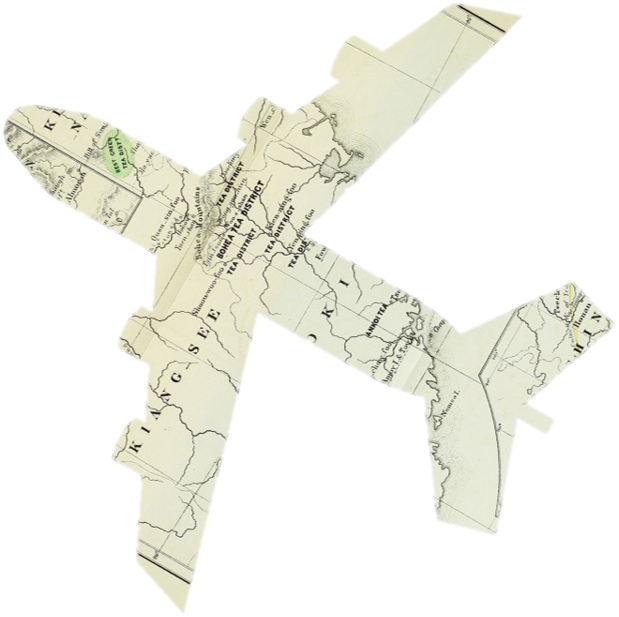
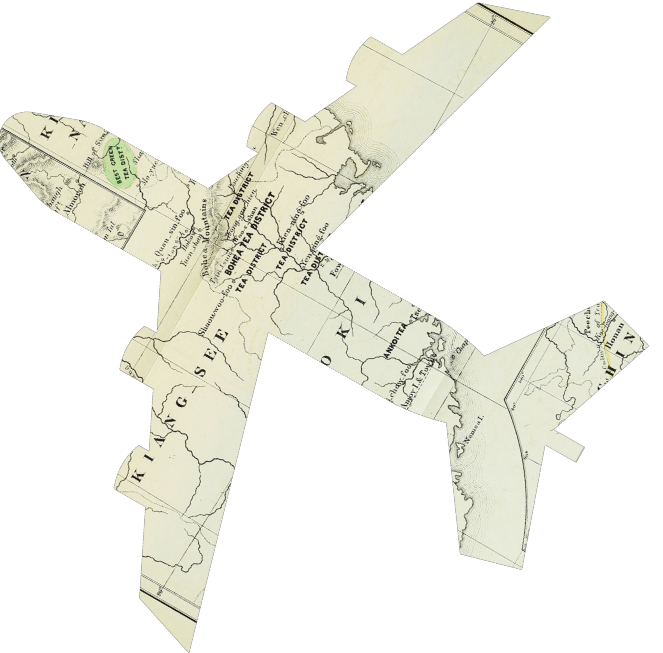
Statue image formatted and added Repositioning elements in Booki page

diff --git a/css/style.css b/css/style.css
@@ -405,8 +405,8 @@ div#BookiPage .VisitSiteButtonContainer {
     background-color: transparent;
     position: relative;
     z-index: 5;
-    top: -151px;
-    left: -33px;
+    top: -176px;
+    left: -539px;
 }
 
 div#OhmyfoodPage .VisitSiteButtonContainer {
@@ -441,10 +441,6 @@ div.OhmyfoodDescription {
 
 }
 
-div.OhmyfoodDescription p {
-    width: 264px;
-
-}
 
 div.OhmyfoodAllText {
     display:flex;
@@ -458,12 +454,12 @@ div.OhmyfoodAllText {
 }
 
 
-div.BackArrowContainer {
+div#BookiPage .BackArrowContainer {
     padding-top:30px;
     z-index:4;
     background-color:transparent;
     position:relative;
-    left:18px;
+    left:-457px;
 }
 
 div#OhmyfoodPage .BackArrowContainer a {
@@ -488,13 +484,6 @@ div.BookiDescription {
 
 }
 
-div.BookiDescription p {
-    width: 368px;
-    z-index: 1;
-    background-color: transparent;
-    position: relative;
-
-}
 
 div.BookiAllText {
     display:flex;
@@ -516,10 +505,26 @@ div#BookiPage {
     justify-content: space-between;
     overflow:hidden;
     height:100vh;
+}
 
-   
+div.BookiGiantStatueContainer {
+    rotate: 10deg;
+    z-index: 3;
+    left: 671px;
+    top: -97px;
+    position: relative;
+    width: 500px;
+    
 
 }
+
+div.BookiGiantStatueContainer img {
+    width: 973px;
+    object-fit: cover;
+    opacity: 50%;
+    
+}
+
 
 div.BookiTitleContainer {
     background: transparent;
@@ -527,8 +532,8 @@ div.BookiTitleContainer {
     display:flex;
     justify-content: center;
     position: relative;
-    top: 107px;
-    left: 41px;
+    top: 157px;
+    left: -456px;
     z-index: 4;
 }
 
@@ -539,44 +544,53 @@ h2.PageTitle{
 
 div.BookiDescription p {
     text-align:center;
-    top: -115px;
-    left: 108px;
+    top: -134px;
+    left: -393px;
     font-size: 13px;
     width: 369px;
+    z-index: 1;
+    background-color: transparent;
+    position: relative;
 }
 
 
 div.BookiCollageBorderContainer {
     display: flex;
     justify-content: start;
-    z-index: 0;
+    z-index: 1;
     position: relative;
-    left: -849px;
+    left: -1413px;
     align-items: center;
-    top: 13px;
+    top: 43px;
     background: transparent;
 }
 
 
 div.BookiCollageBorderContainer img {
     aspect-ratio: auto;
-    width: 59vw;
+    width: 64vw;
+    background: transparent;
+    opacity:100%;
+    
 
 }
 
 div.BookiCollageBorderRightCornerContainer {
     display: flex;
-    left: -564px;
+    left: -1079px;
     position: relative;
     background: transparent;
     align-items: flex-end;
     width: 500px;
+    top: 97px;
 }
 
 div.BookiCollageBorderRightCornerContainer img {
     aspect-ratio: auto;
-    width: 243px;
-    object-fit: none;
+    width: 324px;
+    object-fit: cover;
+    background: transparent;
+    opacity: 100%;
 }
 
 div.BookiBorder {
@@ -591,13 +605,15 @@ div.BookiTextPaperBackground {
     z-index: 1;
     position: relative;
     top: 25px;
-    left: 36px;
+    left: -466px;
+    background: transparent;
 
 }
 
 div.BookiTextPaperBackground img{
     aspect-ratio: auto;
     width: 502px;
+    background: transparent;
 }
 
 div.BookiBackgroundPostcardContainer img {
@@ -609,23 +625,22 @@ div.BookiBackgroundPostcardContainer img {
 
 div.BookiBackgroundPostcardContainer {
     position: relative;
-    left: -387px;
+    left: -866px;
     top: -201px;
+  
 }
 
 div.BookiPlaneContainer img {
-    width: 94px;
+    width: 80px;
     z-index: 5;
     position: relative;
     background: transparent;
 }
 
 div.BookiPlaneContainer {
-    left: 321px;
+    left: -185px;
     position: relative;
-    top: 117px;
-}
-
-div.BookiPlaneContainer img {
-    width:80px;
+    top: 131px;
+    background: transparent;
+    opacity: 100%;
 }

diff --git a/Booki.html b/Booki.html
@@ -13,6 +13,9 @@
 
 <body>
     <div id="BookiPage">
+        <div class="BookiGiantStatueContainer">
+            <img src="images/BookiGiantStatue.png">
+        </div>
         <div class="BackArrowContainer">
             <a href="index.html"><i class="fa-solid fa-arrow-left"></i></a>
         </div>
